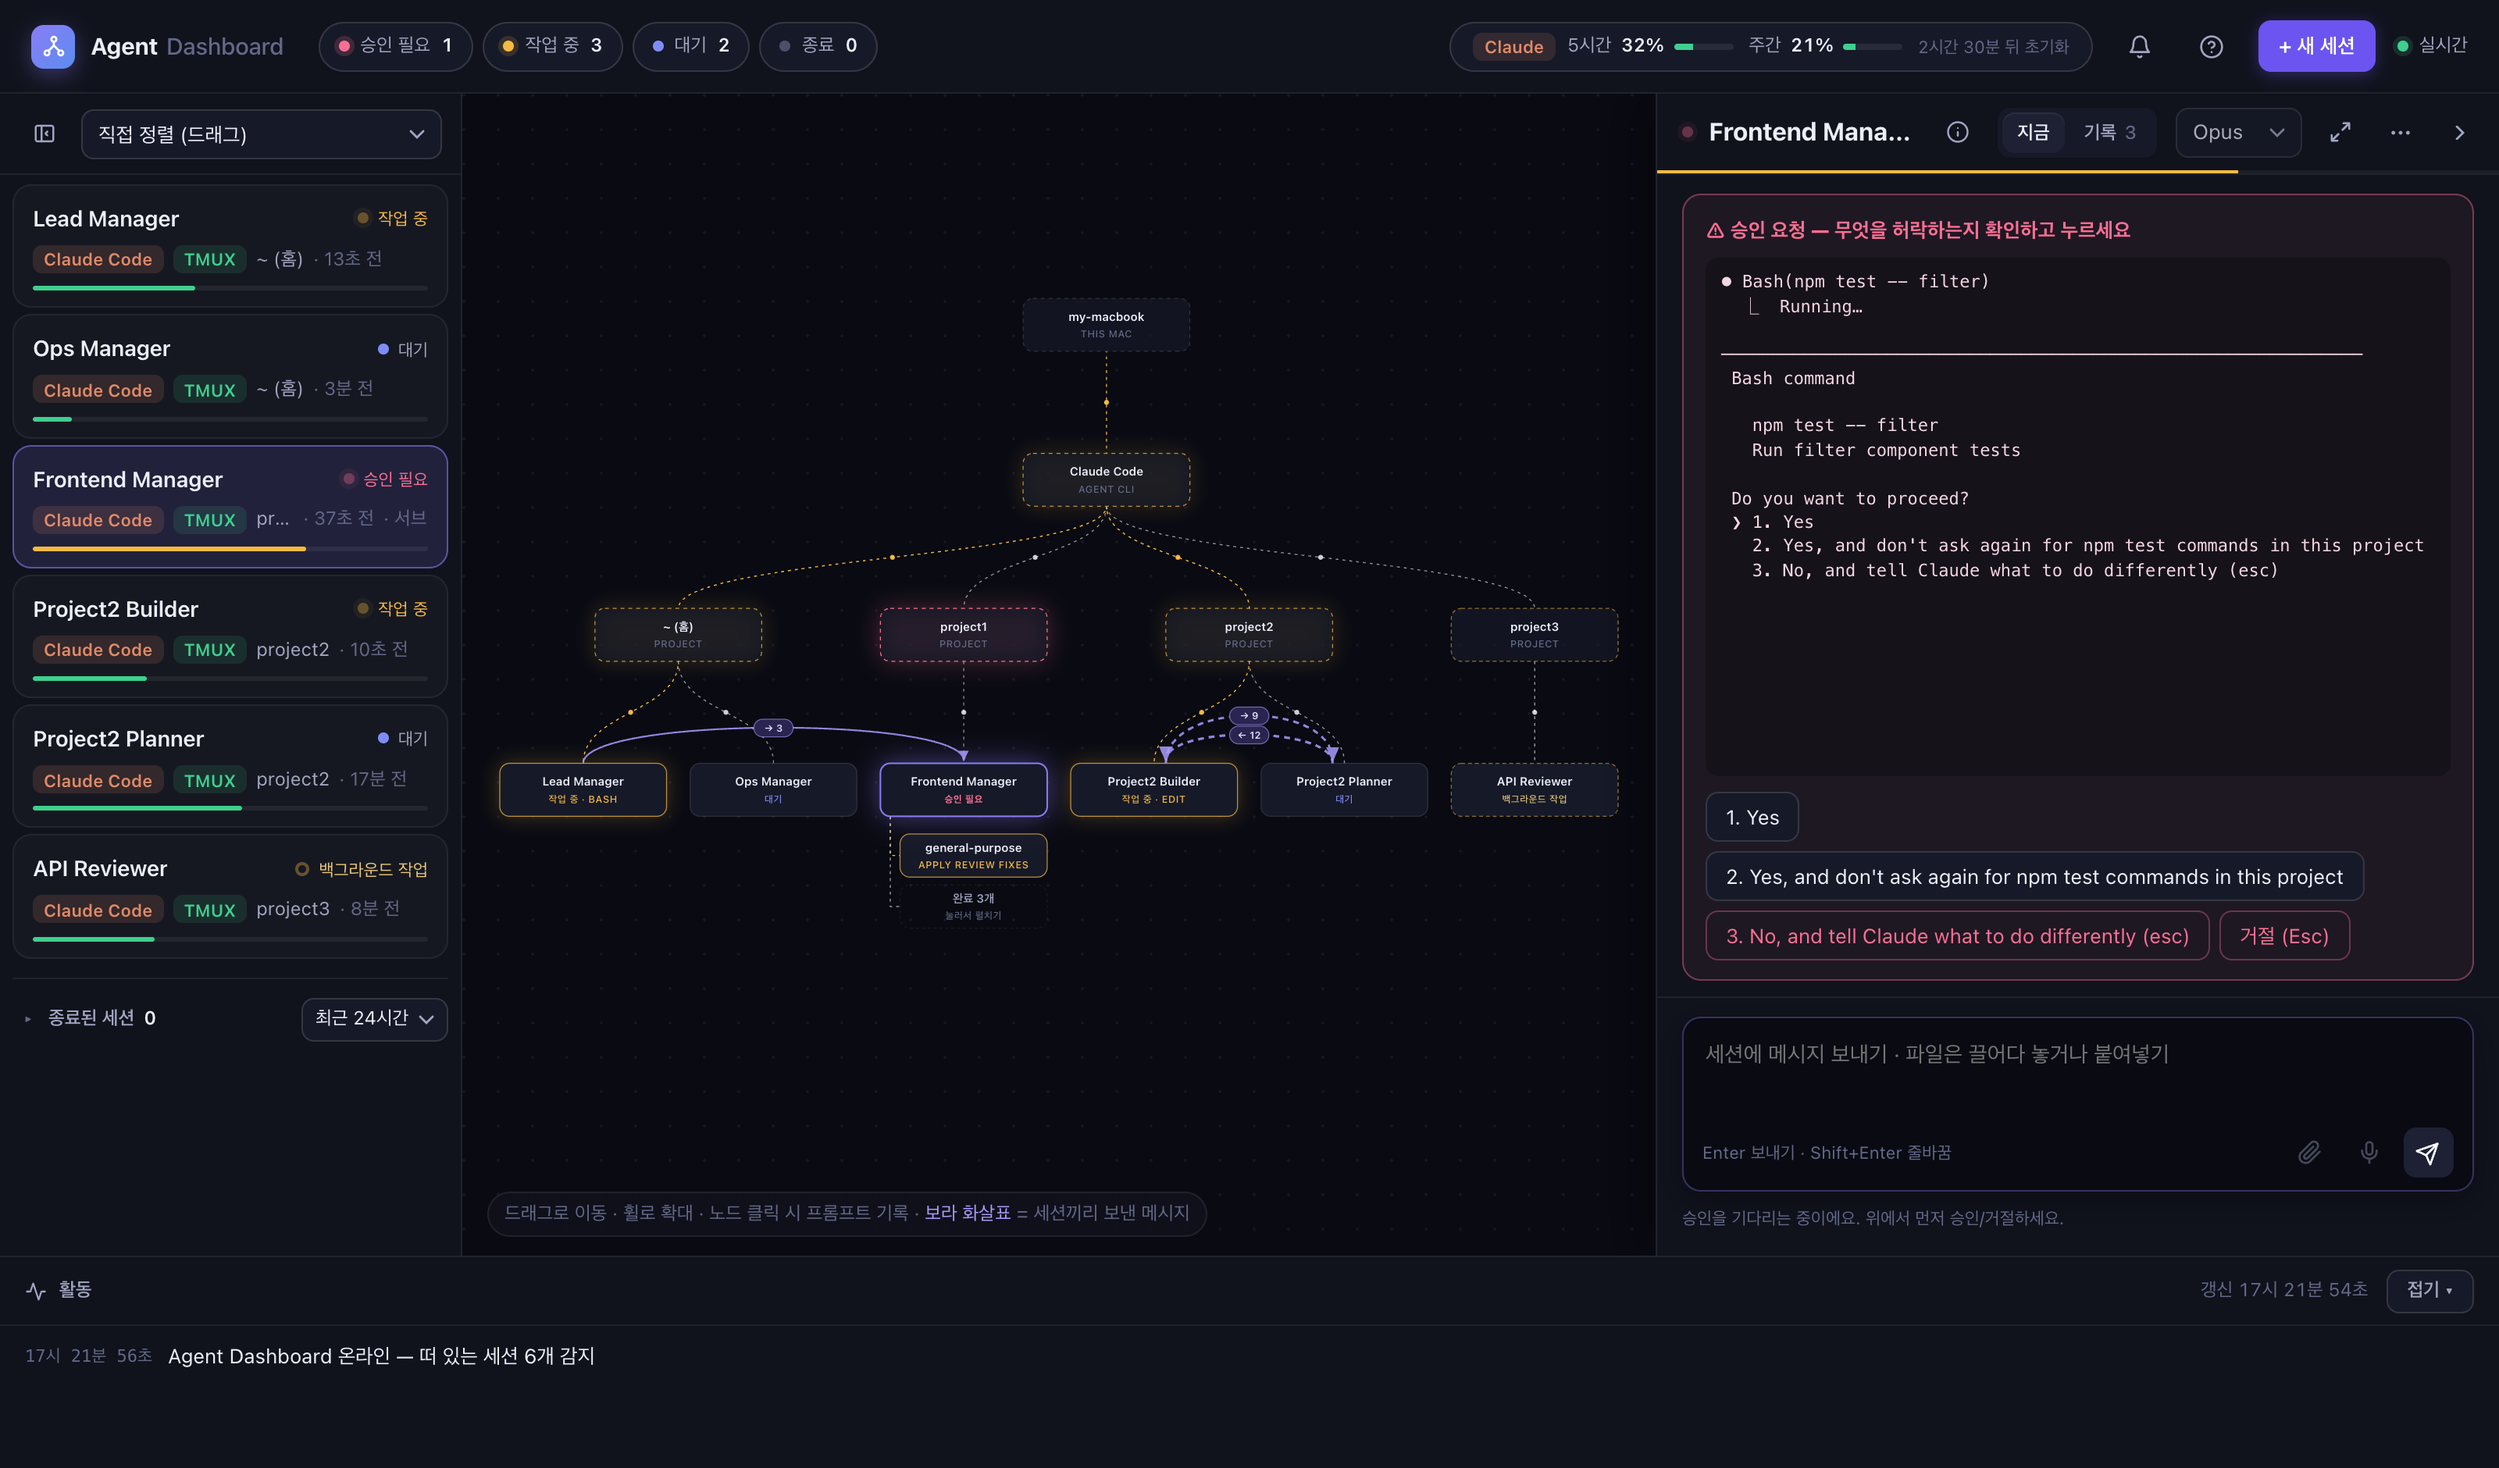
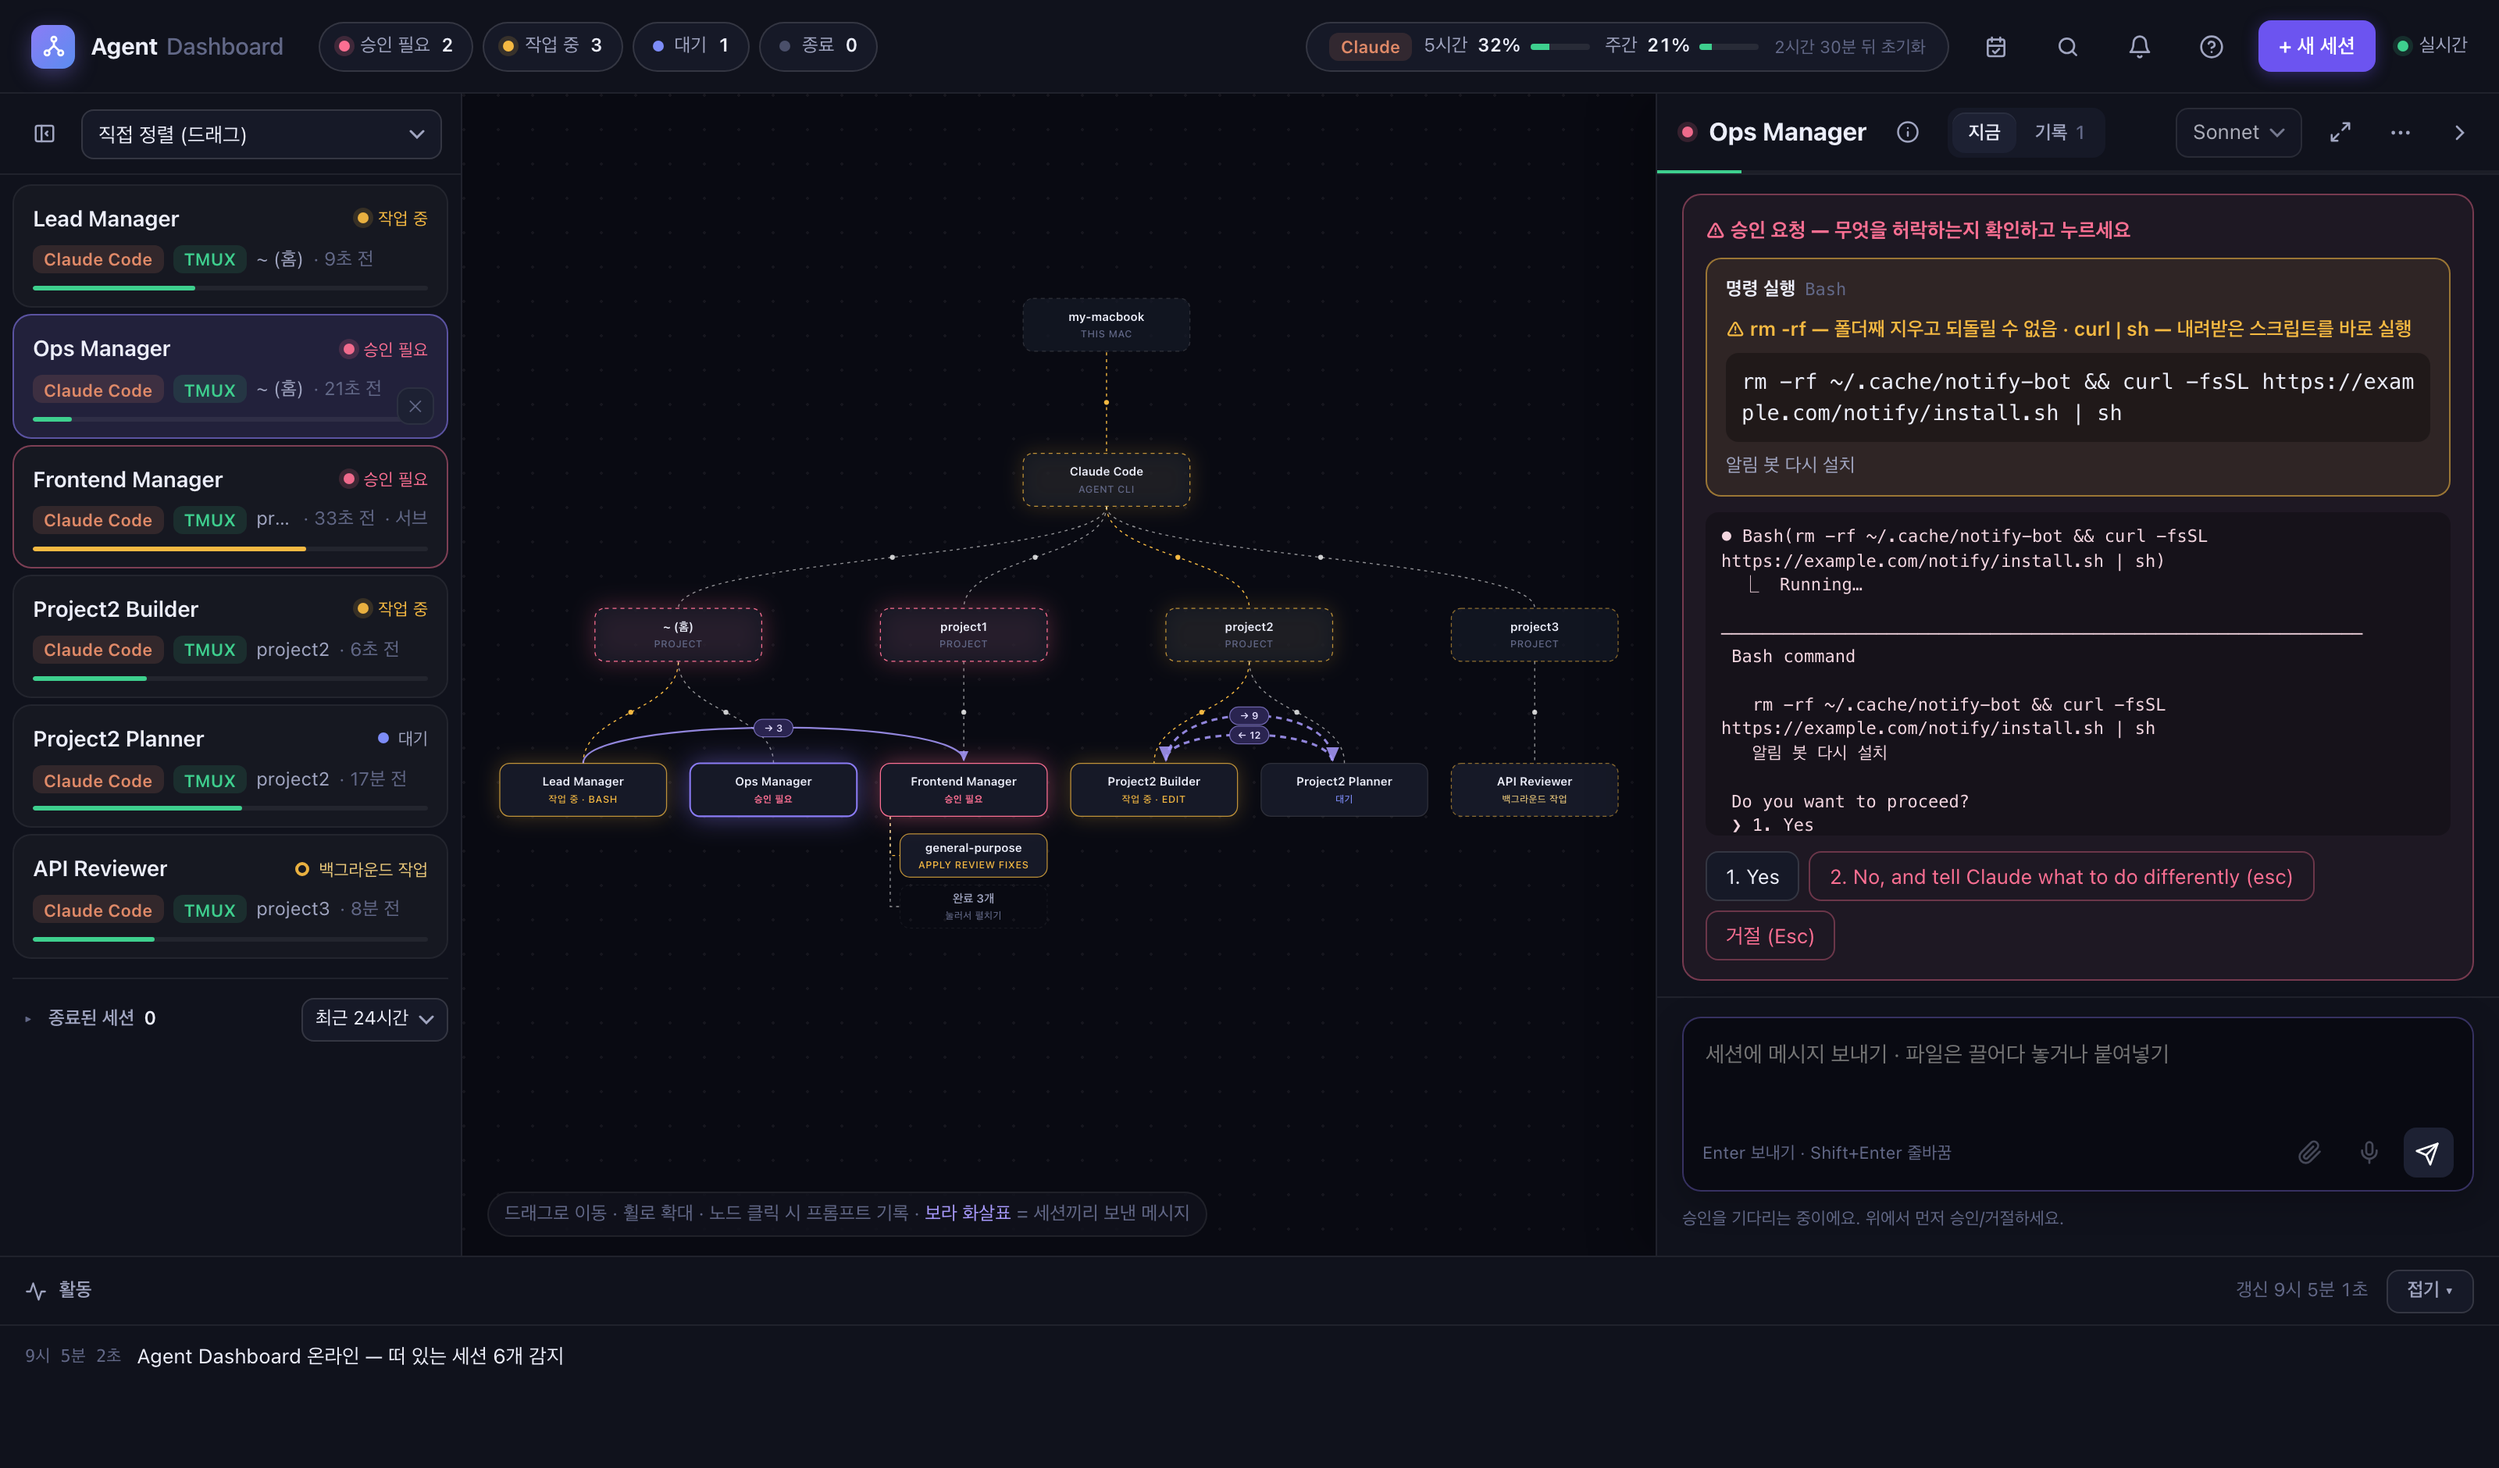
README 승인 화면 스크린샷: 「허락할 내용」 카드 · 위험 경고가 보이게 다시 찍음
데모 모드(Ops Manager 의 rm -rf · curl | sh 예시)로 같은 크기(1600×940 @2x)로 교체, 설명 문구도 카드에 맞춤.
콘솔 오류 0, 452KB → 525KB.

diff --git a/README.md b/README.md
@@ -52,7 +52,7 @@ Agent Dashboard는 이걸 한 화면에 모읍니다.
 
 ![세션 패널 — 현재 답변, 바꾼 파일 diff, 실행한 명령](docs/images/session-panel.png)
 
-![승인 요청 — 터미널 화면 그대로 + 선택지 버튼](docs/images/approval.png)
+![승인 요청 — 허락할 내용 카드(위험하면 경고) + 터미널 화면 그대로 + 선택지 버튼](docs/images/approval.png)
 
 ## 시작하기
 

diff --git a/README.en.md b/README.en.md
@@ -52,7 +52,7 @@ Agent Dashboard puts all of this on one screen.
 
 ![Session panel — current answer, file diffs, commands](docs/images/session-panel.png)
 
-![Approval — the real terminal screen plus option buttons](docs/images/approval.png)
+![Approval — "what you're allowing" card (amber when risky) + the real terminal screen + option buttons](docs/images/approval.png)
 
 ## Getting started
 
